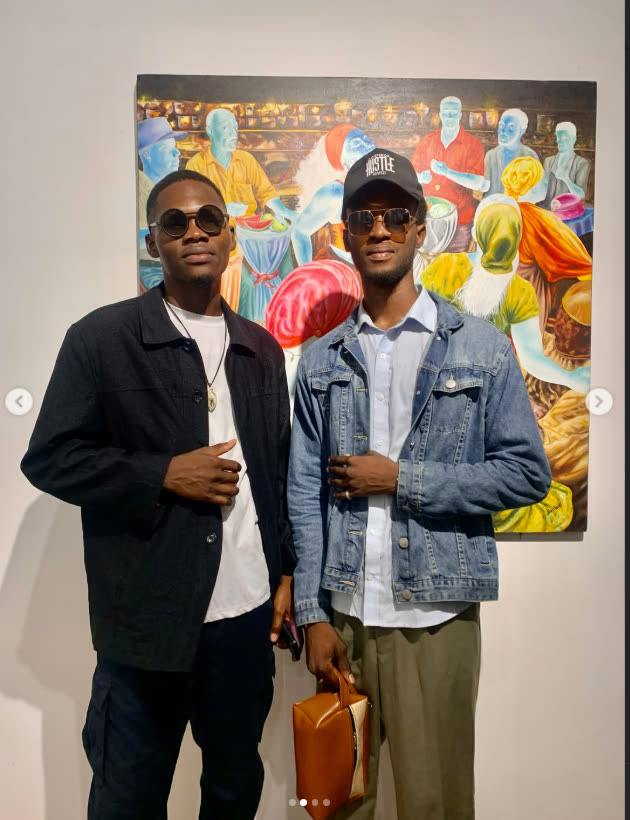
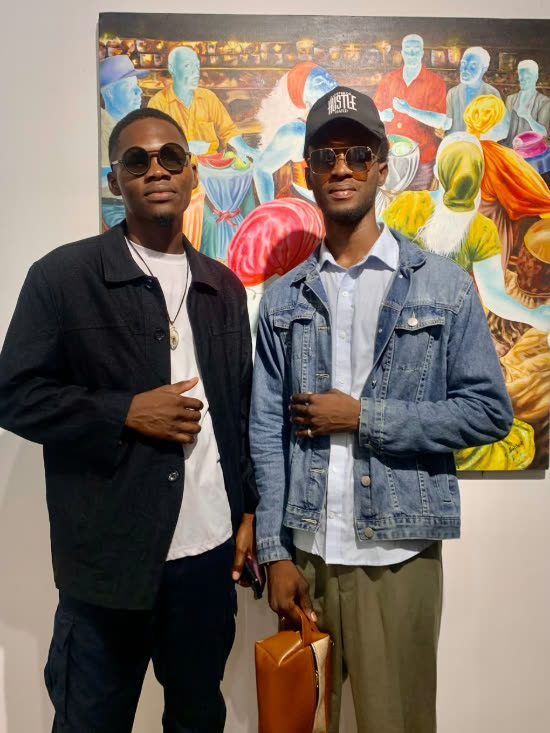
Écarte l'interface Instagram des clichés d'exposition de la page À propos
Les trois clichés sont des captures d'écran : l'interface du carrousel était
restée incrustée dedans. img37 portait les deux flèches de défilement et les
pastilles, img40 la flèche gauche et les pastilles, img38 la flèche droite
ainsi qu'une vignette de profil et son badge Reels en bas à gauche.

Tout cela touchant les bords, un recadrage suffit : il coûte moins que la
retouche, qui aurait laissé une tache là où les flèches couvrent un tableau
et une veste.

Les coupes sont ajustées pour tomber sur 3/4 exactement, le format du cadre,
si bien que les quatre clichés le remplissent désormais sans bande :
  img37  crop=550:733:38:62
  img38  crop=549:732:44:0
  img40  crop=587:783:38:0

Elles repartent des PNG originaux plutôt que des JPEG déjà publiés, pour
éviter une seconde compression. medias-sources garde les originaux intacts,
incrustations comprises.

diff --git a/client/src/styles/about.css b/client/src/styles/about.css
@@ -8,9 +8,9 @@
 .about-hero { max-width: var(--max-w); margin: 0 auto; padding: 60px var(--gutter) 40px; display: grid; grid-template-columns: 1.1fr 1fr; gap: clamp(28px, 6vw, 80px); align-items: center; }
 .about-hero__media { position: relative; padding: 18px; }
 /*
- * Cadre vertical : toute la série est en portrait, autour de 3/4 (0,75 à 0,77).
- * `contain` plutôt que `cover` pour que chaque cliché se voie entier ; l'écart
- * de format entre eux est si faible que les bandes restent imperceptibles.
+ * Cadre vertical : toute la série est publiée en 3/4 exactement, donc chaque
+ * cliché remplit le cadre sans bande. `contain` plutôt que `cover` pour qu'un
+ * ajout au format légèrement différent se voie entier au lieu d'être rogné.
  */
 .about-hero__media img { width: 100%; aspect-ratio: 3 / 4; object-fit: contain; border-radius: var(--radius-md); box-shadow: var(--shadow-lg); }
 /* Habillage du diaporama d'atelier — mécanique dans `.slideshow` (base.css).

diff --git a/client/src/pages/AboutPage.tsx b/client/src/pages/AboutPage.tsx
@@ -12,6 +12,11 @@ import Slideshow from "../components/Slideshow";
  * Toute la série est en portrait, d'où le cadre vertical côté CSS. `img33`
  * vient du dossier des portraits : pris en portrait lui aussi, il n'avait plus
  * sa place dans l'en-tête paysage de la bibliographie.
+ *
+ * Les trois clichés d'exposition sont des captures Instagram : les originaux
+ * portent les flèches de défilement et les pastilles du carrousel. Les copies
+ * publiées sont recadrées pour les écarter — voir le commit correspondant pour
+ * les coordonnées, l'original intact restant dans medias-sources.
  */
 const PORTRAITS = [
   "/images/about/img37.jpeg",
